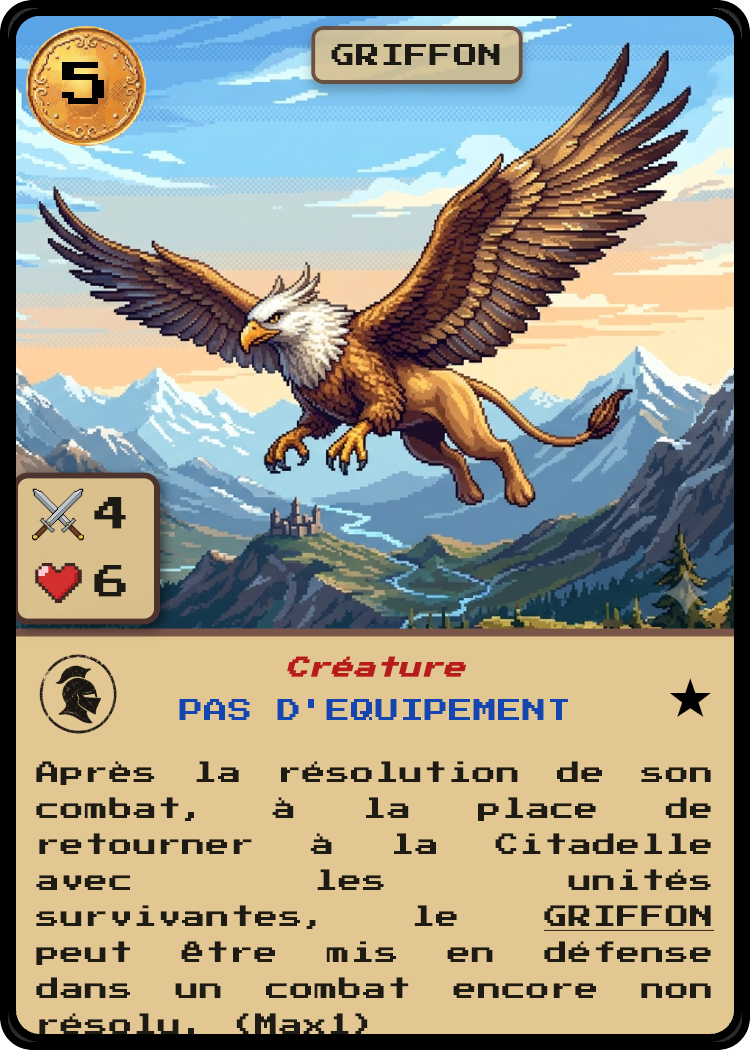
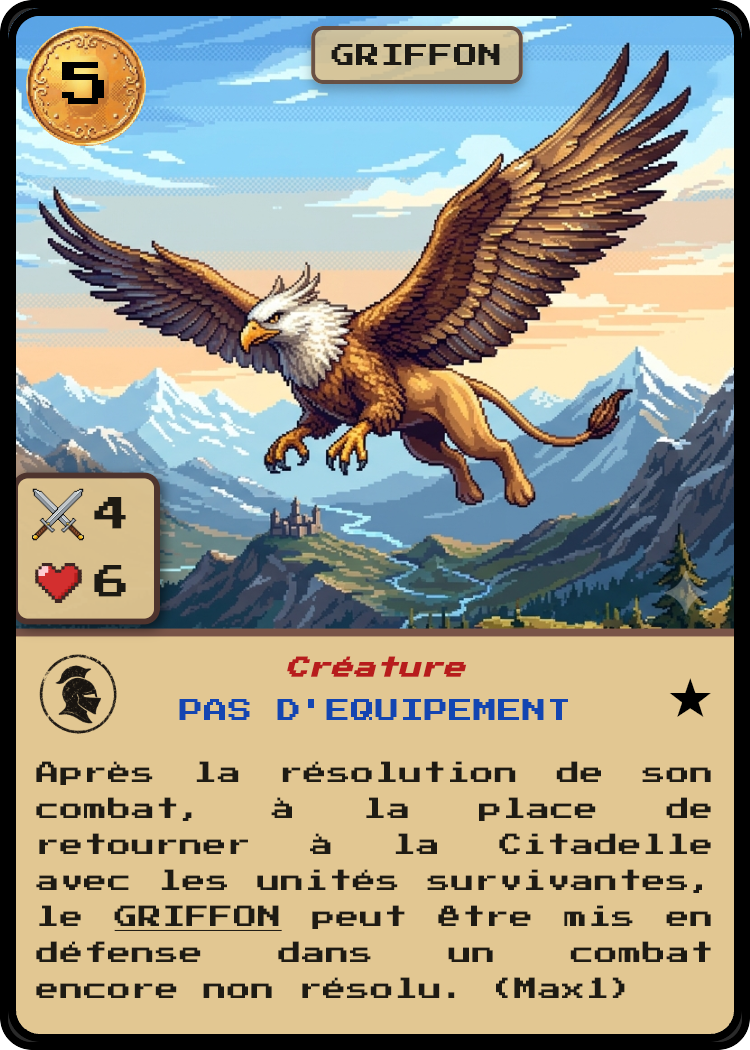
Mise à jour

Changed region(s): [[0.0307, 0.7314, 0.9507, 1.0], [0.368, 0.7314, 0.46, 0.7924]]

diff --git a/Presentation/index.html b/Presentation/index.html
@@ -275,17 +275,23 @@
           <div class="facts">
             <span>2 joueurs</span>
             <span>30–45 min</span>
-            <span>12+</span>
             <span>Construction de deck</span>
-            <span>Français</span>
+            <span>Plus de 650 cartes uniques</span>
           </div>
         </header>
 
         <p class="pitch">
           <strong>Pixel of Glory</strong> est un duel de cartes fantasy en pixel art.
           Avant la partie, chacun assemble son armée. Ensuite on s’affronte
-          pour ravager les lieux de l’adversaire — jusqu’à vider son deck.
+           jusqu’à vider son deck.
         </p>
+
+        <div class="cards">
+          <h2>Pourquoi passer à Pixel of Glory</h2>
+          <p>
+            
+          </p>
+        </div>
 
         <div class="cards">
           <figure class="card-shot">
@@ -293,17 +299,17 @@
             <figcaption>Griffon · Créature</figcaption>
           </figure>
           <figure class="card-shot">
-            <img src="img/Fee.png" alt="Carte Fée, unité Forestier et Magicien">
-            <figcaption>Fée · Forestier, Magicien</figcaption>
+            <img src="img/Tour_des_Mysteres.png" alt="Batiment, construction">
+            <figcaption>Tour des Mystères · Bâtiment</figcaption>
           </figure>
         </div>
 
         <div class="copy">
             <section>
-              <h2>Comment ça se passe</h2>
-              <p>Chacun arrive avec un <strong>deck de 40 cartes</strong>, <strong>7 plans</strong> et <strong>3 lieux</strong> (dont 1 quartier général).</p>
+              <h2>Comment on joue</h2>
+              <p>En 5 phases</p>
               <ol>
-                <li>Un plan est révélé : il donne l’initiative du tour.</li>
+                <li>Un plan est révélé : il donne un pouvoir et l’initiative du tour.</li>
                 <li>On joue unités, bâtiments, équipements, événements.</li>
                 <li>On envoie les troupes attaquer ou défendre les lieux.</li>
                 <li>On résout les combats, lieu par lieu.</li>
@@ -313,13 +319,8 @@
 
             <section class="win">
               <h2>Comment on gagne</h2>
-              <p>Vous gagnez dès que le <strong>deck adverse est vide</strong>. On y arrive surtout en ravageant ses lieux : les dommages en trop font défausser des cartes — et sur le QG, des cartes de sa main.</p>
-              <p class="note">L’or est une piste unique entre les deux joueurs : dépenser, c’est souvent pousser la fortune vers l’adversaire.</p>
-            </section>
-
-            <section class="proche">
-              <h2>Type · proche de</h2>
-              <p><strong>Construction de deck avant la partie</strong> (comme Magic), pas du deck-building pendant la partie (contrairement à Dominion). Duel 1 contre 1, sièges sur des lieux — dans l’esprit de <em>Magic: The Gathering</em>, avec une touche <em>Game of Thrones LCG</em>.</p>
+              <p>Vous gagnez dès que le <strong>deck adverse est vide</strong>. La principale façon d'y arriver est de ravager les lieux adverse : 
+                les dommages en trop font défausser des cartes.</p>
             </section>
         </div>
 
